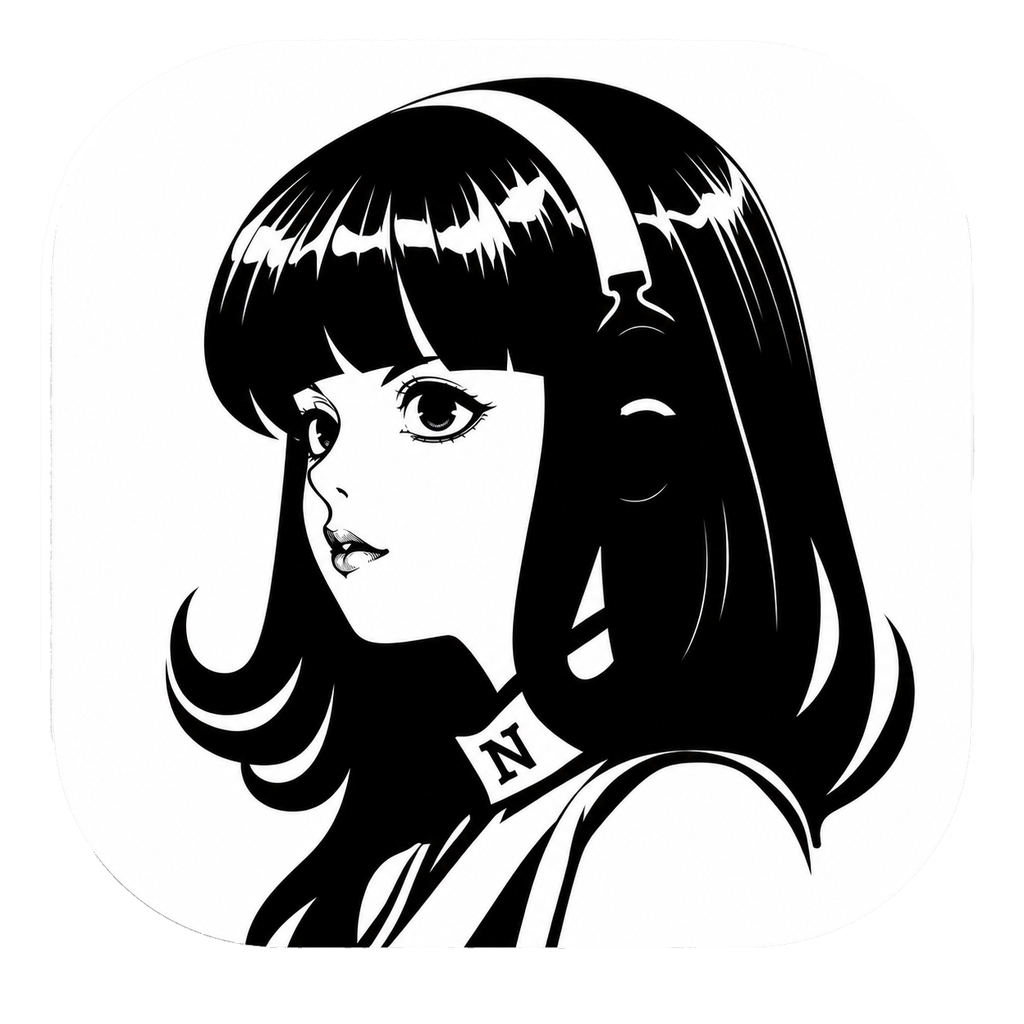
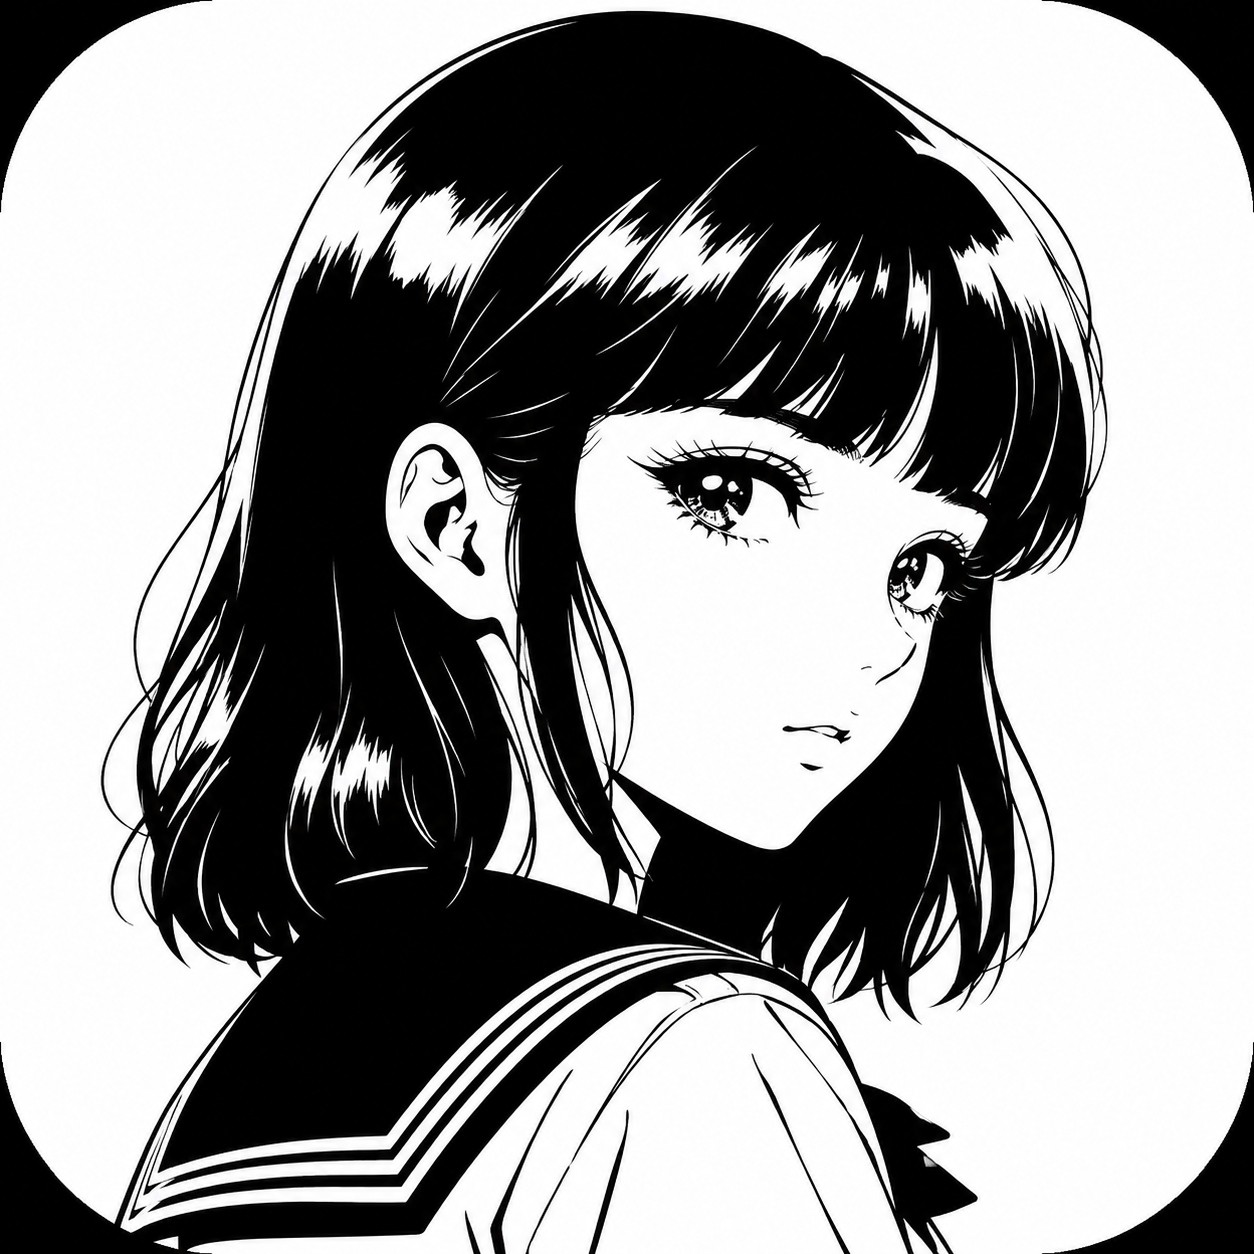
chore: rename Hermes to Nexus and update branding assets
Update all references from "Hermes" to "Nexus" in chat introduction copy and personality strings. This includes updating the application icons and applying code style formatting to the intro component.

diff --git a/src/components/chat/intro.tsx b/src/components/chat/intro.tsx
@@ -1,162 +1,167 @@
-import { type CSSProperties, useState } from 'react'
+import { type CSSProperties, useState } from "react";
 
-import introCopyJsonl from './intro-copy.jsonl?raw'
+import introCopyJsonl from "./intro-copy.jsonl?raw";
 
 type IntroCopy = {
-  headline: string
-  body: string
-}
+  headline: string;
+  body: string;
+};
 
 type IntroCopyRecord = IntroCopy & {
-  personality: string
-}
+  personality: string;
+};
 
 export type IntroProps = {
-  personality?: string
-  seed?: number
-}
+  personality?: string;
+  seed?: number;
+};
 
-const NEUTRAL_PERSONALITIES = new Set(['', 'default', 'none', 'neutral'])
+const NEUTRAL_PERSONALITIES = new Set(["", "default", "none", "neutral"]);
 
 const FALLBACK_COPY: IntroCopy[] = [
   {
-    headline: 'What are we moving today?',
-    body: "Send a bug, branch, plan, or rough idea. I'll inspect the repo and turn it into the next concrete step."
+    headline: "What are we moving today?",
+    body: "Send a bug, branch, plan, or rough idea. I'll inspect the repo and turn it into the next concrete step.",
   },
   {
     headline: "What's on your mind?",
-    body: "Bring the code, question, or stuck part. I'll read the room before making changes."
+    body: "Bring the code, question, or stuck part. I'll read the room before making changes.",
   },
   {
-    headline: 'What should Hermes look at?',
-    body: "Send the task, failing path, or half-formed plan. I'll help turn it into action."
+    headline: "What should Hermes look at?",
+    body: "Send the task, failing path, or half-formed plan. I'll help turn it into action.",
   },
   {
-    headline: 'Where should we start?',
-    body: "Bring the problem, goal, or file. I'll inspect first and keep the next step concrete."
+    headline: "Where should we start?",
+    body: "Bring the problem, goal, or file. I'll inspect first and keep the next step concrete.",
   },
   {
-    headline: 'What needs attention?',
-    body: "Send the context you have. I'll help sort it into a plan or a fix."
-  }
-]
+    headline: "What needs attention?",
+    body: "Send the context you have. I'll help sort it into a plan or a fix.",
+  },
+];
 
 function normalizeKey(value?: string): string {
-  return (value || '').trim().toLowerCase()
+  return (value || "").trim().toLowerCase();
 }
 
 function titleize(value: string): string {
   return value
     .split(/[-_\s]+/)
     .filter(Boolean)
-    .map(part => part.charAt(0).toUpperCase() + part.slice(1))
-    .join(' ')
+    .map((part) => part.charAt(0).toUpperCase() + part.slice(1))
+    .join(" ");
 }
 
 function isIntroCopyRecord(value: unknown): value is IntroCopyRecord {
-  if (!value || typeof value !== 'object') {
-    return false
+  if (!value || typeof value !== "object") {
+    return false;
   }
 
-  const record = value as Record<string, unknown>
+  const record = value as Record<string, unknown>;
 
   return (
-    typeof record.personality === 'string' &&
-    typeof record.headline === 'string' &&
-    typeof record.body === 'string' &&
+    typeof record.personality === "string" &&
+    typeof record.headline === "string" &&
+    typeof record.body === "string" &&
     Boolean(record.personality.trim()) &&
     Boolean(record.headline.trim()) &&
     Boolean(record.body.trim())
-  )
+  );
 }
 
 function parseIntroCopy(raw: string): Record<string, IntroCopy[]> {
-  const byPersonality: Record<string, IntroCopy[]> = {}
+  const byPersonality: Record<string, IntroCopy[]> = {};
 
   for (const line of raw.split(/\r?\n/)) {
-    const trimmed = line.trim()
+    const trimmed = line.trim();
 
     if (!trimmed) {
-      continue
+      continue;
     }
 
     try {
-      const parsed: unknown = JSON.parse(trimmed)
+      const parsed: unknown = JSON.parse(trimmed);
 
       if (!isIntroCopyRecord(parsed)) {
-        continue
+        continue;
       }
 
-      const key = normalizeKey(parsed.personality)
-      byPersonality[key] ??= []
+      const key = normalizeKey(parsed.personality);
+      byPersonality[key] ??= [];
       byPersonality[key].push({
         headline: parsed.headline.trim(),
-        body: parsed.body.trim()
-      })
+        body: parsed.body.trim(),
+      });
     } catch {
       // Bad generated copy should not break the whole desktop app.
     }
   }
 
-  return byPersonality
+  return byPersonality;
 }
 
-const INTRO_COPY_BY_PERSONALITY = parseIntroCopy(introCopyJsonl)
+const INTRO_COPY_BY_PERSONALITY = parseIntroCopy(introCopyJsonl);
 
 function neutralCopy(): IntroCopy[] {
-  return INTRO_COPY_BY_PERSONALITY.none || INTRO_COPY_BY_PERSONALITY.default || FALLBACK_COPY
+  return (
+    INTRO_COPY_BY_PERSONALITY.none ||
+    INTRO_COPY_BY_PERSONALITY.default ||
+    FALLBACK_COPY
+  );
 }
 
 function fallbackCopyForPersonality(personalityKey: string): IntroCopy[] {
   if (NEUTRAL_PERSONALITIES.has(personalityKey)) {
-    return neutralCopy()
+    return neutralCopy();
   }
 
-  const label = titleize(personalityKey)
+  const label = titleize(personalityKey);
 
   return [
     {
       headline: `${label} mode is on. What should we work on?`,
-      body: "Send the task, file, or rough idea. I'll use your configured voice and keep the work grounded in this repo."
+      body: "Send the task, file, or rough idea. I'll use your configured voice and keep the work grounded in this repo.",
     },
     {
       headline: `What does ${label} Hermes need to see?`,
-      body: "Bring the context or the stuck part. I'll adapt to your configured personality."
+      body: "Bring the context or the stuck part. I'll adapt to your configured personality.",
     },
     {
       headline: `${label} mode is ready.`,
-      body: "Send the problem, file, or idea. I'll follow the personality you've configured."
+      body: "Send the problem, file, or idea. I'll follow the personality you've configured.",
     },
     {
       headline: `What should ${label} Hermes tackle?`,
-      body: "Drop the task here. I'll keep the work grounded in the repo."
+      body: "Drop the task here. I'll keep the work grounded in the repo.",
     },
     {
-      headline: 'Where should we begin?',
-      body: `Give me the context and I'll answer in ${label} mode.`
-    }
-  ]
+      headline: "Where should we begin?",
+      body: `Give me the context and I'll answer in ${label} mode.`,
+    },
+  ];
 }
 
 function pickCopy(copies: IntroCopy[], seed = 0): IntroCopy {
-  return copies[Math.abs(seed) % copies.length] || FALLBACK_COPY[0]
+  return copies[Math.abs(seed) % copies.length] || FALLBACK_COPY[0];
 }
 
-const WORDMARK = 'HERMES AGENT'
+const WORDMARK = "NEXUS AGENT";
 
 function resolveCopy(personality?: string, seed?: number): IntroCopy {
-  const personalityKey = normalizeKey(personality)
+  const personalityKey = normalizeKey(personality);
 
   const copies = NEUTRAL_PERSONALITIES.has(personalityKey)
     ? INTRO_COPY_BY_PERSONALITY[personalityKey] || neutralCopy()
-    : INTRO_COPY_BY_PERSONALITY[personalityKey] || fallbackCopyForPersonality(personalityKey)
+    : INTRO_COPY_BY_PERSONALITY[personalityKey] ||
+      fallbackCopyForPersonality(personalityKey);
 
-  return pickCopy(copies, seed)
+  return pickCopy(copies, seed);
 }
 
 export function Intro({ personality, seed }: IntroProps) {
-  const [mountSeed] = useState(() => Math.floor(Math.random() * 100000))
-  const copy = resolveCopy(personality, mountSeed + (seed ?? 0))
+  const [mountSeed] = useState(() => Math.floor(Math.random() * 100000));
+  const copy = resolveCopy(personality, mountSeed + (seed ?? 0));
 
   return (
     <div
@@ -167,7 +172,12 @@ export function Intro({ personality, seed }: IntroProps) {
         <p
           aria-label={WORDMARK}
           className="fit-text mx-auto mb-3 w-[88%] font-['Collapse'] font-bold uppercase leading-[0.9] tracking-[0.08em] text-midground mix-blend-plus-lighter dark:text-foreground/90"
-          style={{ '--fit-text-line-height': '0.9', '--fit-text-min': '2.75rem' } as CSSProperties}
+          style={
+            {
+              "--fit-text-line-height": "0.9",
+              "--fit-text-min": "2.75rem",
+            } as CSSProperties
+          }
         >
           <span>
             <span>{WORDMARK}</span>
@@ -175,8 +185,10 @@ export function Intro({ personality, seed }: IntroProps) {
           <span aria-hidden="true">{WORDMARK}</span>
         </p>
 
-        <p className="m-0 text-center leading-normal tracking-tight">{copy.body}</p>
+        <p className="m-0 text-center leading-normal tracking-tight">
+          {copy.body}
+        </p>
       </div>
     </div>
-  )
+  );
 }